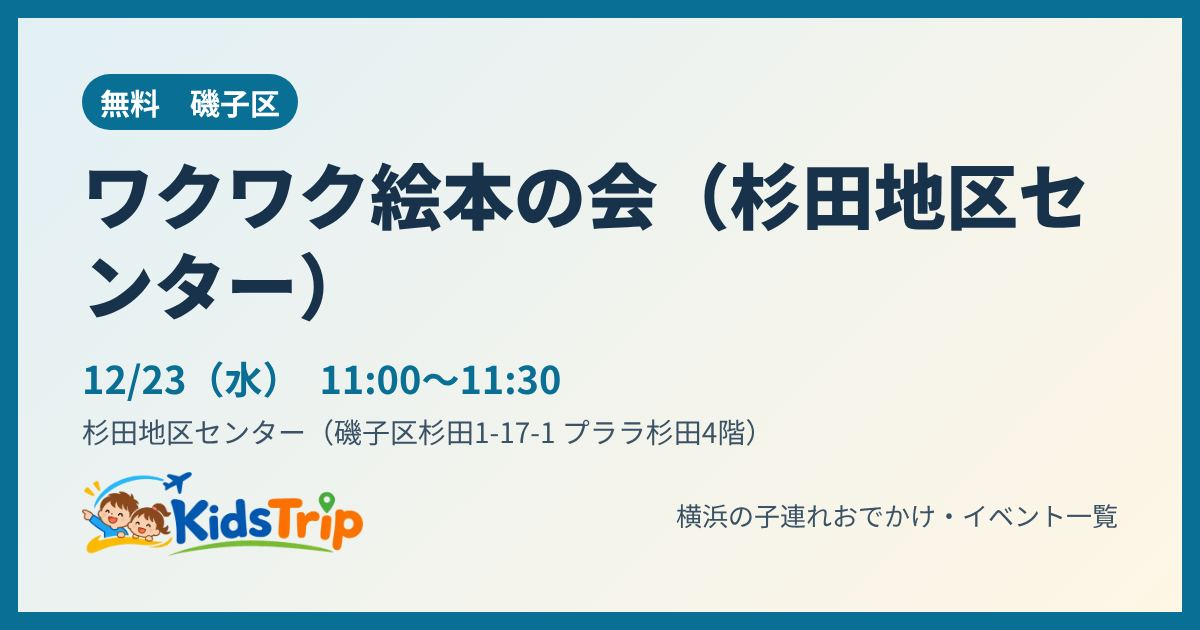
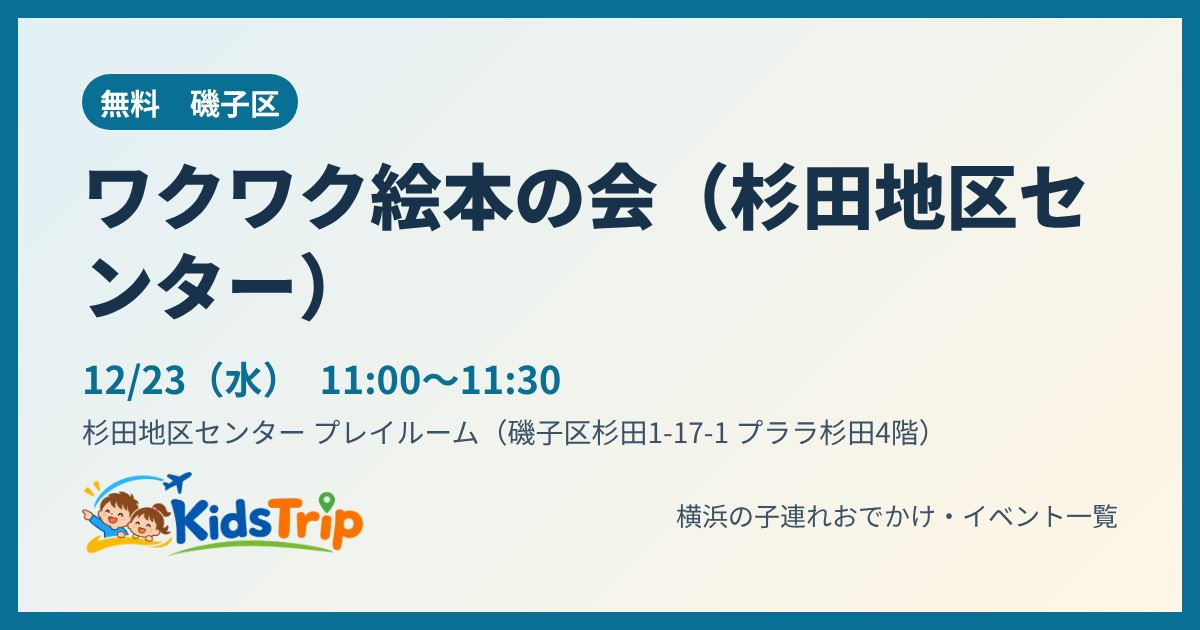
杉田地区センターの人形劇・ワクワク絵本の会を利用者が送った公式の画面で確認
Claude-Session: https://claude.ai/code/session_014AtJ2gk8Y7wNUEGdkodLXj

Changed region(s): [[0.2467, 0.6635, 0.7708, 0.7238]]

diff --git a/js/data.js b/js/data.js
@@ -1760,8 +1760,8 @@ EVENTS.push({"t": "たけのこリトミック（竹之丸地区センター）"
 EVENTS.push({"t": "「ぽっぽっぽっ」とあそぼう！（野毛地区センター）", "days": ["12/18"], "time": "10:00〜11:00", "ward": "中区", "venue": "野毛地区センター（中区野毛町3-160-4 ちぇるる野毛3階）", "price": "unknown", "priceText": "公式ページで未確認（くわしくは電話で）", "place": "屋内", "rain": "ok", "rainText": "屋内なので雨でもOK", "resv": false, "resvText": "公式ページで未確認（くわしくは電話で） 045-241-4535", "age": [0, 6], "ageText": "親子（対象は未確認）", "kind": "limited", "start": 600, "sum": "おはなしボランティア「ぽっぽっぽっ」と遊ぶ会。", "tip": "対象・料金・申し込みは一覧に載っておらず未確認。行く前に電話（045-241-4535）で確かめて。 桜木町駅・日ノ出町駅から歩いて約5分。駐車場・駐輪場はない。", "url": "https://www.nakakumin.com/nogechikusen/smartphone/eventdetail.cgi?1794104512", "src": "野毛地区センター公式（講座・イベント一覧）", "asof": "2026年11月17日"});
 EVENTS.push({"t": "おもちゃの病院（野毛地区センター）", "days": ["12/20"], "time": "10:00〜", "ward": "中区", "venue": "野毛地区センター（中区野毛町3-160-4 ちぇるる野毛3階）", "price": "unknown", "priceText": "公式ページで未確認（くわしくは電話で）", "place": "屋内", "rain": "ok", "rainText": "屋内なので雨でもOK", "resv": false, "resvText": "公式ページで未確認（くわしくは電話で） 045-241-4535", "age": [0, 12], "ageText": "壊れたおもちゃがある家族", "kind": "limited", "start": 600, "sum": "動かなくなったおもちゃを直してもらえる。", "tip": "対象・料金・申し込みは一覧に載っておらず未確認。行く前に電話（045-241-4535）で確かめて。 桜木町駅・日ノ出町駅から歩いて約5分。駐車場・駐輪場はない。", "url": "https://www.nakakumin.com/nogechikusen/smartphone/eventdetail.cgi?1794104632", "src": "野毛地区センター公式（講座・イベント一覧）", "asof": "2026年11月17日"});
 EVENTS.push({"t": "上中里地区センターのプレイルーム（磯子区）", "days": [], "time": "開館時間内（月〜土 9:00〜21:00／日・祝 9:00〜17:00）", "ward": "磯子区", "venue": "上中里地区センター（磯子区上中里町397-2）", "price": "free", "priceText": "無料", "place": "屋内", "rain": "ok", "rainText": "屋内なので雨でもOK", "resv": false, "resvText": "予約不要", "age": [0, 6], "ageText": "乳幼児と保護者", "kind": "ongoing", "start": 600, "freeplay": true, "only": [], "period": "毎月第4月曜（祝日なら翌日）・12/28〜1/4以外は開館", "sum": "乳幼児と保護者のためのプレイルーム（約54.6㎡）。館内に車いす用トイレとおむつ交換台がある。", "tip": "プレイルームでは授乳以外の飲食はしない。おむつ替えはトイレで、おむつは持ち帰り。靴は下駄箱へ。駐車場は8台で前日までの予約制（空いていれば使える）。問い合わせ 045-773-3929。", "url": "https://www.kaminakazato-ac-seikosha.com/guide/index.html", "src": "上中里地区センター公式（施設紹介・利用案内）", "asof": "2026年11月17日"});
-EVENTS.push({"t": "ちーさな人形劇場 ふーちゃんがやってくるよ！（杉田地区センター）", "days": ["12/19"], "time": "10:30〜11:10", "ward": "磯子区", "venue": "杉田地区センター（磯子区杉田1-17-1 プララ杉田4階）", "price": "free", "priceText": "無料", "place": "屋内", "rain": "ok", "rainText": "屋内なので雨でもOK", "resv": true, "resvText": "要申込（先着15人。11/21 9時から来館・電話 045-775-0541）", "age": [0, 12], "ageText": "小学生以下（小2以下は保護者と）", "kind": "limited", "start": 630, "sum": "かわいい人形劇を見る会。", "tip": "京急杉田駅直結。", "url": "https://www.isogo-sk.com/sugita-center/", "src": "杉田地区センター公式（センターニュース2026年11月号）", "asof": "2026年11月17日"});
-EVENTS.push({"t": "ワクワク絵本の会（杉田地区センター）", "days": ["12/23"], "time": "11:00〜11:30", "ward": "磯子区", "venue": "杉田地区センター（磯子区杉田1-17-1 プララ杉田4階）", "price": "free", "priceText": "無料", "place": "屋内", "rain": "ok", "rainText": "屋内なので雨でもOK", "resv": true, "resvText": "要申込（先着8組。11/18 9時から来館・電話 045-775-0541）", "age": [0, 6], "ageText": "乳幼児と保護者", "kind": "limited", "start": 660, "sum": "絵本の読み聞かせや手遊びを楽しむ、毎月の会。", "tip": "京急杉田駅直結。", "url": "https://www.isogo-sk.com/sugita-center/", "src": "杉田地区センター公式（センターニュース2026年11月号）", "asof": "2026年11月17日"});
+EVENTS.push({"t": "ちーさな人形劇場 ふーちゃんがやってくるよ！（杉田地区センター）", "days": ["12/19"], "time": "10:30〜11:10", "ward": "磯子区", "venue": "杉田地区センター（磯子区杉田1-17-1 プララ杉田4階）", "price": "free", "priceText": "無料", "place": "屋内", "rain": "ok", "rainText": "屋内なので雨でもOK", "resv": true, "resvText": "要申込（先着15人。11/21 9時から来館・電話 045-775-0541）", "age": [0, 12], "ageText": "小学生以下（小2以下は保護者と）", "kind": "limited", "start": 630, "sum": "ちーさな人形劇場ふーちゃんによる、羊毛の人形を使った人形劇「森のクリスマス」。", "tip": "京急杉田駅直結。", "url": "https://www.isogo-sk.com/sugita-center/", "src": "杉田地区センター公式（センターニュース2026年11月号・利用者が送った公式ページの画面（2026年11月））", "asof": "2026年11月21日"});
+EVENTS.push({"t": "ワクワク絵本の会（杉田地区センター）", "days": ["12/23"], "time": "11:00〜11:30", "ward": "磯子区", "venue": "杉田地区センター プレイルーム（磯子区杉田1-17-1 プララ杉田4階）", "price": "free", "priceText": "無料", "place": "屋内", "rain": "ok", "rainText": "屋内なので雨でもOK", "resv": true, "resvText": "要申込（先着8組。11/18 9時から来館・電話 045-775-0541）", "age": [0, 6], "ageText": "乳幼児と保護者", "kind": "limited", "start": 660, "sum": "保育士の平林淳子さんによる、絵本の読み聞かせや手遊び歌を楽しむ会。", "tip": "京急杉田駅直結。", "url": "https://www.isogo-sk.com/sugita-center/", "src": "杉田地区センター公式（センターニュース2026年11月号・利用者が送った公式ページの画面（2026年11月））", "asof": "2026年11月21日"});
 EVENTS.push({"t": "吉良剛 生音ギターコンサート（杉田地区センターのロビーコンサート）", "days": ["12/12"], "time": "11:00〜11:45", "ward": "磯子区", "venue": "杉田地区センター（磯子区杉田1-17-1 プララ杉田4階） ロビー", "price": "free", "priceText": "無料", "place": "屋内", "rain": "ok", "rainText": "屋内なので雨でもOK", "resv": false, "resvText": "予約不要（当日先着70人・直接ロビーへ）", "age": [0, 99], "ageText": "どなたでも", "kind": "limited", "start": 660, "sum": "ロビーで聞ける生音のギターコンサート。", "tip": "京急杉田駅直結。", "url": "https://www.isogo-sk.com/sugita-center/", "src": "杉田地区センター公式（センターニュース2026年11月号）", "asof": "2026年11月17日"});
 EVENTS.push({"t": "ロビーdeコンサート ルロット・オーケストラ（根岸地区センター）", "days": ["12/3"], "time": "11:00〜", "ward": "磯子区", "venue": "根岸地区センター（磯子区馬場町1-42） 2階ロビー", "price": "free", "priceText": "無料", "place": "屋内", "rain": "ok", "rainText": "屋内なので雨でもOK", "resv": false, "resvText": "予約不要", "age": [0, 99], "ageText": "どなたでも", "kind": "limited", "start": 660, "sum": "フライパンなどの日用品を楽器にして、クラシックの楽器と競演するコンサート。", "tip": "子どもも楽しめる。", "url": "https://www.isogo-sk.com/negishi-center/", "src": "根岸地区センター公式（センターニュース2026年11月号）", "asof": "2026年11月17日"});
 EVENTS.push({"t": "クリスマス＆お正月の食器作り（根岸地区センター）", "days": ["12/6"], "time": "10:00〜12:00", "ward": "磯子区", "venue": "根岸地区センター（磯子区馬場町1-42）", "price": "paid", "priceText": "800円〜1,500円（作るお皿の種類で変わる）", "place": "屋内", "rain": "ok", "rainText": "屋内なので雨でもOK", "resv": true, "resvText": "要申込（先着20人・1人1点。11/11から来館・電話 045-751-4777）", "age": [6, 99], "ageText": "小学生〜大人（小2以下は保護者と）", "kind": "limited", "start": 600, "sum": "クリスマスやお正月に使える、ツリー型や丸いお皿などを作る講座。", "tip": "はさみ・ハンカチを持っていく。", "url": "https://www.isogo-sk.com/negishi-center/", "src": "根岸地区センター公式（センターニュース2026年11月号）", "asof": "2026年11月17日"});

diff --git a/event/11vf1cx/index.html b/event/11vf1cx/index.html
@@ -4,12 +4,12 @@
 <meta charset="utf-8">
 <meta name="viewport" content="width=device-width, initial-scale=1">
 <title>ワクワク絵本の会（杉田地区センター）（磯子区）｜横浜の子連れイベント｜KidsTrip</title>
-<meta name="description" content="12月23日(水)　杉田地区センター（磯子区杉田1-17-1 プララ杉田4階）。絵本の読み聞かせや手遊びを楽しむ、毎月の会。">
+<meta name="description" content="12月23日(水)　杉田地区センター プレイルーム（磯子区杉田1-17-1 プララ杉田4階）。保育士の平林淳子さんによる、絵本の読み聞かせや手遊び歌を楽しむ会。">
 <link rel="canonical" href="https://kidstrip.jp/event/11vf1cx/">
 <meta property="og:type" content="article">
 <meta property="og:site_name" content="KidsTrip">
 <meta property="og:title" content="ワクワク絵本の会（杉田地区センター）（磯子区）｜横浜の子連れイベント｜KidsTrip">
-<meta property="og:description" content="12月23日(水)　杉田地区センター（磯子区杉田1-17-1 プララ杉田4階）。絵本の読み聞かせや手遊びを楽しむ、毎月の会。">
+<meta property="og:description" content="12月23日(水)　杉田地区センター プレイルーム（磯子区杉田1-17-1 プララ杉田4階）。保育士の平林淳子さんによる、絵本の読み聞かせや手遊び歌を楽しむ会。">
 <meta property="og:url" content="https://kidstrip.jp/event/11vf1cx/">
 <meta property="og:image" content="https://kidstrip.jp/og/11vf1cx.jpg">
 <meta property="og:image:width" content="1200">
@@ -21,7 +21,7 @@
 <link rel="icon" href="../../img/favicon.png">
 <link rel="apple-touch-icon" href="../../img/apple-touch-icon.png">
 <script type="application/ld+json">{"@context": "https://schema.org", "@type": "BreadcrumbList", "itemListElement": [{"@type": "ListItem", "position": 1, "name": "トップ", "item": "https://kidstrip.jp/"}, {"@type": "ListItem", "position": 2, "name": "イベント", "item": "https://kidstrip.jp/"}, {"@type": "ListItem", "position": 3, "name": "ワクワク絵本の会（杉田地区センター）"}]}</script>
-<script type="application/ld+json">{"@context": "https://schema.org", "@type": "Event", "name": "ワクワク絵本の会（杉田地区センター）", "startDate": "2026-12-23T11:00:00+09:00", "endDate": "2026-12-23", "eventStatus": "https://schema.org/EventScheduled", "eventAttendanceMode": "https://schema.org/OfflineEventAttendanceMode", "location": {"@type": "Place", "name": "杉田地区センター（磯子区杉田1-17-1 プララ杉田4階）", "address": {"@type": "PostalAddress", "addressLocality": "横浜市磯子区", "addressRegion": "神奈川県", "addressCountry": "JP"}}, "description": "絵本の読み聞かせや手遊びを楽しむ、毎月の会。", "image": ["https://kidstrip.jp/og/11vf1cx.jpg"], "url": "https://kidstrip.jp/event/11vf1cx/", "isAccessibleForFree": true, "inLanguage": "ja", "offers": {"@type": "Offer", "price": 0, "priceCurrency": "JPY", "url": "https://www.isogo-sk.com/sugita-center/", "availability": "https://schema.org/InStock"}}</script>
+<script type="application/ld+json">{"@context": "https://schema.org", "@type": "Event", "name": "ワクワク絵本の会（杉田地区センター）", "startDate": "2026-12-23T11:00:00+09:00", "endDate": "2026-12-23", "eventStatus": "https://schema.org/EventScheduled", "eventAttendanceMode": "https://schema.org/OfflineEventAttendanceMode", "location": {"@type": "Place", "name": "杉田地区センター プレイルーム（磯子区杉田1-17-1 プララ杉田4階）", "address": {"@type": "PostalAddress", "addressLocality": "横浜市磯子区", "addressRegion": "神奈川県", "addressCountry": "JP"}}, "description": "保育士の平林淳子さんによる、絵本の読み聞かせや手遊び歌を楽しむ会。", "image": ["https://kidstrip.jp/og/11vf1cx.jpg"], "url": "https://kidstrip.jp/event/11vf1cx/", "isAccessibleForFree": true, "inLanguage": "ja", "offers": {"@type": "Offer", "price": 0, "priceCurrency": "JPY", "url": "https://www.isogo-sk.com/sugita-center/", "availability": "https://schema.org/InStock"}}</script>
 <style>
 .gkcmp th[scope=row]{white-space:nowrap}.gkcmp td{font-size:.92em}
 .gk{list-style:none;padding:0}.gk li{border:1px solid #e5e5e5;border-radius:10px;padding:10px 12px;margin:8px 0;line-height:1.7}.gk h3{margin:0 0 2px;font-size:1.02em}
@@ -54,19 +54,19 @@ footer{margin:28px 0 8px;font-size:12px;color:var(--muted)}
 <table class="info">
 <tr><th>日にち</th><td>12月23日(水)</td></tr>
 <tr><th>時間</th><td>11:00〜11:30</td></tr>
-<tr><th>場所</th><td>磯子区・杉田地区センター（磯子区杉田1-17-1 プララ杉田4階）</td></tr>
+<tr><th>場所</th><td>磯子区・杉田地区センター プレイルーム（磯子区杉田1-17-1 プララ杉田4階）</td></tr>
 <tr><th>料金</th><td>無料</td></tr>
 <tr><th>対象</th><td>乳幼児と保護者</td></tr>
 <tr><th>予約</th><td>要申込（先着8組。11/18 9時から来館・電話 045-775-0541）</td></tr>
 <tr><th>雨の日</th><td>雨でもOK（屋内なので雨でもOK）</td></tr>
 </table>
-<p class="sum">絵本の読み聞かせや手遊びを楽しむ、毎月の会。</p>
+<p class="sum">保育士の平林淳子さんによる、絵本の読み聞かせや手遊び歌を楽しむ会。</p>
 <p class="tip">💡 京急杉田駅直結。</p>
-<p class="small">情報の時点：2026年11月17日　出典：杉田地区センター公式（センターニュース2026年11月号）</p>
+<p class="small">情報の時点：2026年11月21日　出典：杉田地区センター公式（センターニュース2026年11月号・利用者が送った公式ページの画面（2026年11月））</p>
 <div class="btns"><a class="btn main" data-act="official" href="https://www.isogo-sk.com/sugita-center/" target="_blank" rel="noopener">公式ページで確認</a>
 <a class="btn" href="/?e=11vf1cx">一覧で見る（行き方・近くのごはん）</a>
 <button type="button" class="btn" data-share="1">🔗 リンクを送る・コピー</button>
-<a class="btn line" href="https://line.me/R/share?text=%E3%80%90%E3%83%AF%E3%82%AF%E3%83%AF%E3%82%AF%E7%B5%B5%E6%9C%AC%E3%81%AE%E4%BC%9A%EF%BC%88%E6%9D%89%E7%94%B0%E5%9C%B0%E5%8C%BA%E3%82%BB%E3%83%B3%E3%82%BF%E3%83%BC%EF%BC%89%E3%80%91%0A12%E6%9C%8823%E6%97%A5%28%E6%B0%B4%29%E3%80%8011%3A00%E3%80%9C11%3A30%0A%E5%A0%B4%E6%89%80%EF%BC%9A%E7%A3%AF%E5%AD%90%E5%8C%BA%E3%83%BB%E6%9D%89%E7%94%B0%E5%9C%B0%E5%8C%BA%E3%82%BB%E3%83%B3%E3%82%BF%E3%83%BC%EF%BC%88%E7%A3%AF%E5%AD%90%E5%8C%BA%E6%9D%89%E7%94%B01-17-1%20%E3%83%97%E3%83%A9%E3%83%A9%E6%9D%89%E7%94%B04%E9%9A%8E%EF%BC%89%0Ahttps%3A//kidstrip.jp/event/11vf1cx/" target="_blank" rel="noopener">LINEで送る</a></div>
+<a class="btn line" href="https://line.me/R/share?text=%E3%80%90%E3%83%AF%E3%82%AF%E3%83%AF%E3%82%AF%E7%B5%B5%E6%9C%AC%E3%81%AE%E4%BC%9A%EF%BC%88%E6%9D%89%E7%94%B0%E5%9C%B0%E5%8C%BA%E3%82%BB%E3%83%B3%E3%82%BF%E3%83%BC%EF%BC%89%E3%80%91%0A12%E6%9C%8823%E6%97%A5%28%E6%B0%B4%29%E3%80%8011%3A00%E3%80%9C11%3A30%0A%E5%A0%B4%E6%89%80%EF%BC%9A%E7%A3%AF%E5%AD%90%E5%8C%BA%E3%83%BB%E6%9D%89%E7%94%B0%E5%9C%B0%E5%8C%BA%E3%82%BB%E3%83%B3%E3%82%BF%E3%83%BC%20%E3%83%97%E3%83%AC%E3%82%A4%E3%83%AB%E3%83%BC%E3%83%A0%EF%BC%88%E7%A3%AF%E5%AD%90%E5%8C%BA%E6%9D%89%E7%94%B01-17-1%20%E3%83%97%E3%83%A9%E3%83%A9%E6%9D%89%E7%94%B04%E9%9A%8E%EF%BC%89%0Ahttps%3A//kidstrip.jp/event/11vf1cx/" target="_blank" rel="noopener">LINEで送る</a></div>
 </article>
 
 

diff --git a/event/1ixax73/index.html b/event/1ixax73/index.html
@@ -4,12 +4,12 @@
 <meta charset="utf-8">
 <meta name="viewport" content="width=device-width, initial-scale=1">
 <title>ちーさな人形劇場 ふーちゃんがやってくるよ！（杉田地区センター）（磯子区）｜横浜の子連れイベント｜KidsTrip</title>
-<meta name="description" content="12月19日(土)　杉田地区センター（磯子区杉田1-17-1 プララ杉田4階）。かわいい人形劇を見る会。">
+<meta name="description" content="12月19日(土)　杉田地区センター（磯子区杉田1-17-1 プララ杉田4階）。ちーさな人形劇場ふーちゃんによる、羊毛の人形を使った人形劇「森のクリスマス」。">
 <link rel="canonical" href="https://kidstrip.jp/event/1ixax73/">
 <meta property="og:type" content="article">
 <meta property="og:site_name" content="KidsTrip">
 <meta property="og:title" content="ちーさな人形劇場 ふーちゃんがやってくるよ！（杉田地区センター）（磯子区）｜横浜の子連れイベント｜KidsTrip">
-<meta property="og:description" content="12月19日(土)　杉田地区センター（磯子区杉田1-17-1 プララ杉田4階）。かわいい人形劇を見る会。">
+<meta property="og:description" content="12月19日(土)　杉田地区センター（磯子区杉田1-17-1 プララ杉田4階）。ちーさな人形劇場ふーちゃんによる、羊毛の人形を使った人形劇「森のクリスマス」。">
 <meta property="og:url" content="https://kidstrip.jp/event/1ixax73/">
 <meta property="og:image" content="https://kidstrip.jp/og/1ixax73.jpg">
 <meta property="og:image:width" content="1200">
@@ -21,7 +21,7 @@
 <link rel="icon" href="../../img/favicon.png">
 <link rel="apple-touch-icon" href="../../img/apple-touch-icon.png">
 <script type="application/ld+json">{"@context": "https://schema.org", "@type": "BreadcrumbList", "itemListElement": [{"@type": "ListItem", "position": 1, "name": "トップ", "item": "https://kidstrip.jp/"}, {"@type": "ListItem", "position": 2, "name": "イベント", "item": "https://kidstrip.jp/"}, {"@type": "ListItem", "position": 3, "name": "ちーさな人形劇場 ふーちゃんがやってくるよ！（杉田地区センター）"}]}</script>
-<script type="application/ld+json">{"@context": "https://schema.org", "@type": "Event", "name": "ちーさな人形劇場 ふーちゃんがやってくるよ！（杉田地区センター）", "startDate": "2026-12-19T10:30:00+09:00", "endDate": "2026-12-19", "eventStatus": "https://schema.org/EventScheduled", "eventAttendanceMode": "https://schema.org/OfflineEventAttendanceMode", "location": {"@type": "Place", "name": "杉田地区センター（磯子区杉田1-17-1 プララ杉田4階）", "address": {"@type": "PostalAddress", "addressLocality": "横浜市磯子区", "addressRegion": "神奈川県", "addressCountry": "JP"}}, "description": "かわいい人形劇を見る会。", "image": ["https://kidstrip.jp/og/1ixax73.jpg"], "url": "https://kidstrip.jp/event/1ixax73/", "isAccessibleForFree": true, "inLanguage": "ja", "offers": {"@type": "Offer", "price": 0, "priceCurrency": "JPY", "url": "https://www.isogo-sk.com/sugita-center/", "availability": "https://schema.org/InStock"}}</script>
+<script type="application/ld+json">{"@context": "https://schema.org", "@type": "Event", "name": "ちーさな人形劇場 ふーちゃんがやってくるよ！（杉田地区センター）", "startDate": "2026-12-19T10:30:00+09:00", "endDate": "2026-12-19", "eventStatus": "https://schema.org/EventScheduled", "eventAttendanceMode": "https://schema.org/OfflineEventAttendanceMode", "location": {"@type": "Place", "name": "杉田地区センター（磯子区杉田1-17-1 プララ杉田4階）", "address": {"@type": "PostalAddress", "addressLocality": "横浜市磯子区", "addressRegion": "神奈川県", "addressCountry": "JP"}}, "description": "ちーさな人形劇場ふーちゃんによる、羊毛の人形を使った人形劇「森のクリスマス」。", "image": ["https://kidstrip.jp/og/1ixax73.jpg"], "url": "https://kidstrip.jp/event/1ixax73/", "isAccessibleForFree": true, "inLanguage": "ja", "offers": {"@type": "Offer", "price": 0, "priceCurrency": "JPY", "url": "https://www.isogo-sk.com/sugita-center/", "availability": "https://schema.org/InStock"}}</script>
 <style>
 .gkcmp th[scope=row]{white-space:nowrap}.gkcmp td{font-size:.92em}
 .gk{list-style:none;padding:0}.gk li{border:1px solid #e5e5e5;border-radius:10px;padding:10px 12px;margin:8px 0;line-height:1.7}.gk h3{margin:0 0 2px;font-size:1.02em}
@@ -60,9 +60,9 @@ footer{margin:28px 0 8px;font-size:12px;color:var(--muted)}
 <tr><th>予約</th><td>要申込（先着15人。11/21 9時から来館・電話 045-775-0541）</td></tr>
 <tr><th>雨の日</th><td>雨でもOK（屋内なので雨でもOK）</td></tr>
 </table>
-<p class="sum">かわいい人形劇を見る会。</p>
+<p class="sum">ちーさな人形劇場ふーちゃんによる、羊毛の人形を使った人形劇「森のクリスマス」。</p>
 <p class="tip">💡 京急杉田駅直結。</p>
-<p class="small">情報の時点：2026年11月17日　出典：杉田地区センター公式（センターニュース2026年11月号）</p>
+<p class="small">情報の時点：2026年11月21日　出典：杉田地区センター公式（センターニュース2026年11月号・利用者が送った公式ページの画面（2026年11月））</p>
 <div class="btns"><a class="btn main" data-act="official" href="https://www.isogo-sk.com/sugita-center/" target="_blank" rel="noopener">公式ページで確認</a>
 <a class="btn" href="/?e=1ixax73">一覧で見る（行き方・近くのごはん）</a>
 <button type="button" class="btn" data-share="1">🔗 リンクを送る・コピー</button>

diff --git a/index.html b/index.html
@@ -753,7 +753,7 @@ section[id], div[id="events"] { scroll-margin-top: 56px; }
   </footer>
 </div>
 
-<script src="js/data.js?v=e2db1dbdba" defer></script>
+<script src="js/data.js?v=ccb06b4db2" defer></script>
 <script src="js/app.js?v=d8213d59e8" defer></script>
 </body>
 </html>

diff --git a/tools/candidates.md b/tools/candidates.md
@@ -8,7 +8,6 @@
 - 1行に1件：開催日／イベント名／場所／見つけた所／メモ
 
 - 通年／YOKOHAMA STRAWBERRY PARK いちご狩り／鶴見区／ウォーカープラス／時期・料金を公式で確かめる
-- 12/19／ちーさな人形劇場ふーちゃんがやってくるよ！／杉田地区センター（磯子区）／横浜市 市民利用施設等イベント情報（id=110948）／くわしいページを読めず
 - 12/5・12/16など／港北図書館の Hello Library!・一土のおはなし会・ひろばおはなし会／港北区のカレンダー（12月）／くわしいページを開けず
 - 横浜市役所アトリウム 親子ワークショップ（クリスマス工作）：2025年は12/13(土)に「松ぼっくりツリーをつくろう！」（小学生以下と保護者・整理券）があった。2026年の分が https://www.atrium.city.yokohama.lg.jp/event/ に出たら載せる（見つけた所：市役所アトリウムの去年のページ、2026年11月19日）。
 - 12/16／ひろばおはなし会（3〜6歳）／港北図書館／港北区のページ https://www.city.yokohama.lg.jp/kohoku/event-bosyu/sonota/hiroba.html ／12/16の回の中身を確かめていない（11/20）

diff --git a/tools/runs.md b/tools/runs.md
@@ -37,3 +37,4 @@
 | 2026-11-21 | 利用者との作業 | 14:41〜14:41 | 3 | 中村地区センター：冬休み書初め教室（12/26）を追加、Ecoワークショップ・アットホームコンサートを利用者が送った公式の画面で確認 |
 | 2026-11-21 | 夕方の確認 | 16:42〜16:50 | 1 | pending（今日〜来週末は該当なし）を確認、ワールドポーターズ・モザイクモール・ズーラシアなどのお知らせを確認、モザイクモール港北インナチュラルの松ぼっくりリース（11/28）を追加 |
 | 2026-11-21 | 利用者との作業 | 18:44〜18:44 | 3 | 浅間コミュニティハウス：毛糸でクリスマス工作（12/5）・親子のおはなし会（12/8）を利用者が送った公式の画面から追加、候補から消す |
+| 2026-11-21 | 利用者との作業 | 18:46〜18:46 | 2 | 杉田地区センターの人形劇（12/19）・ワクワク絵本の会（12/23）を利用者が送った公式の画面で確認、候補から消す |
